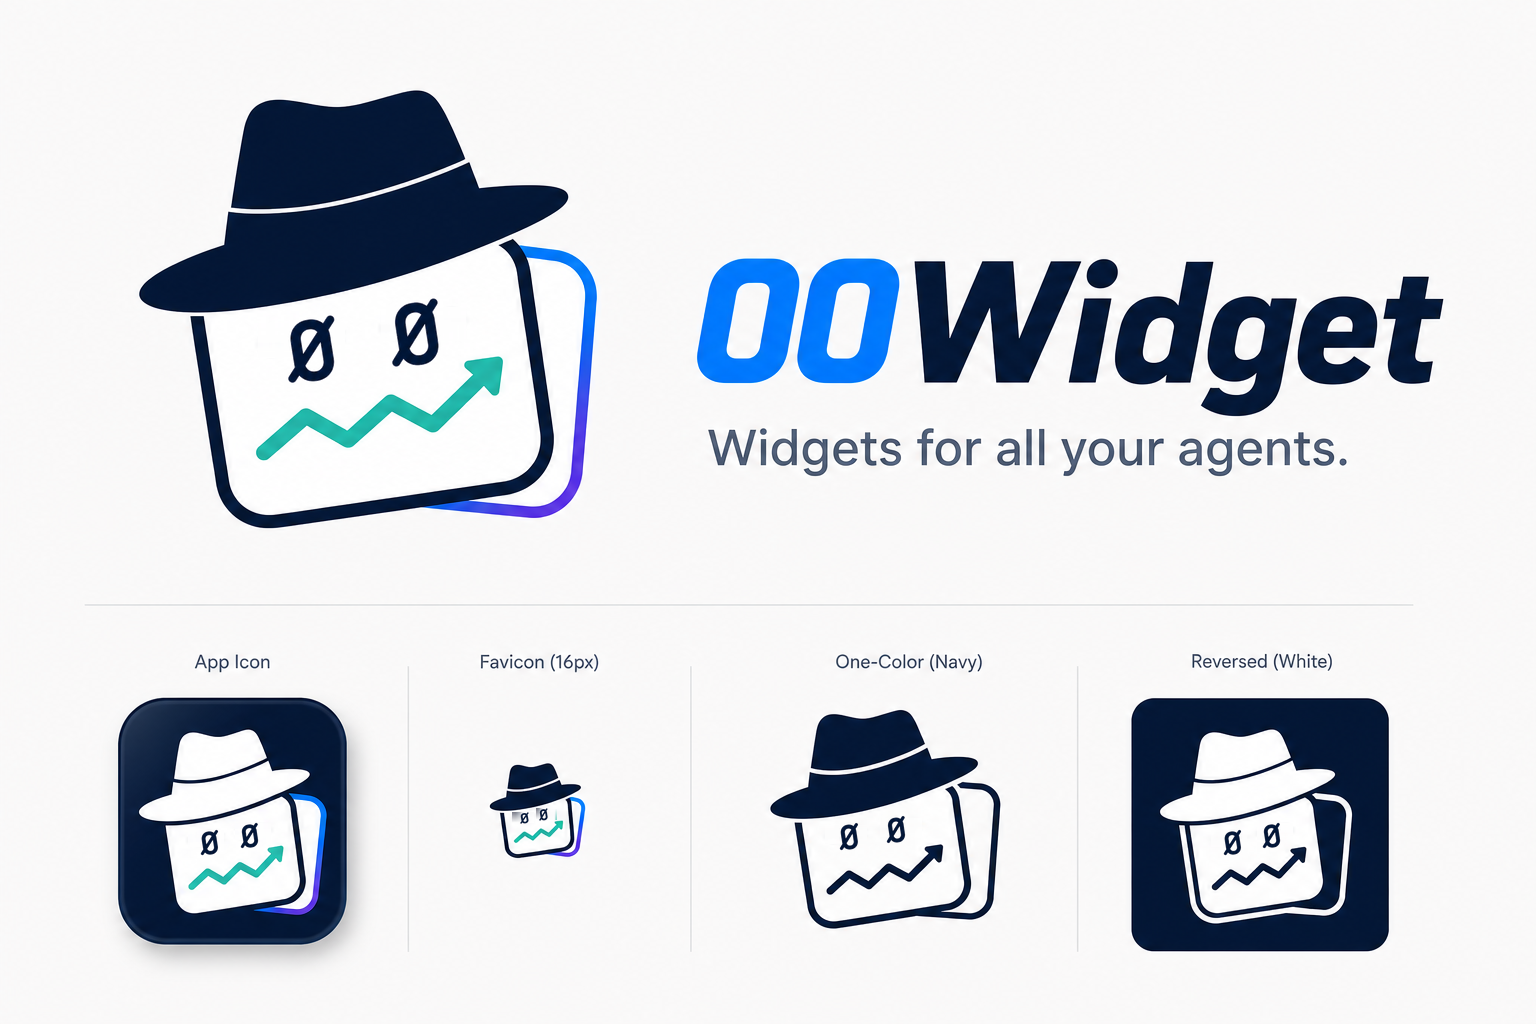
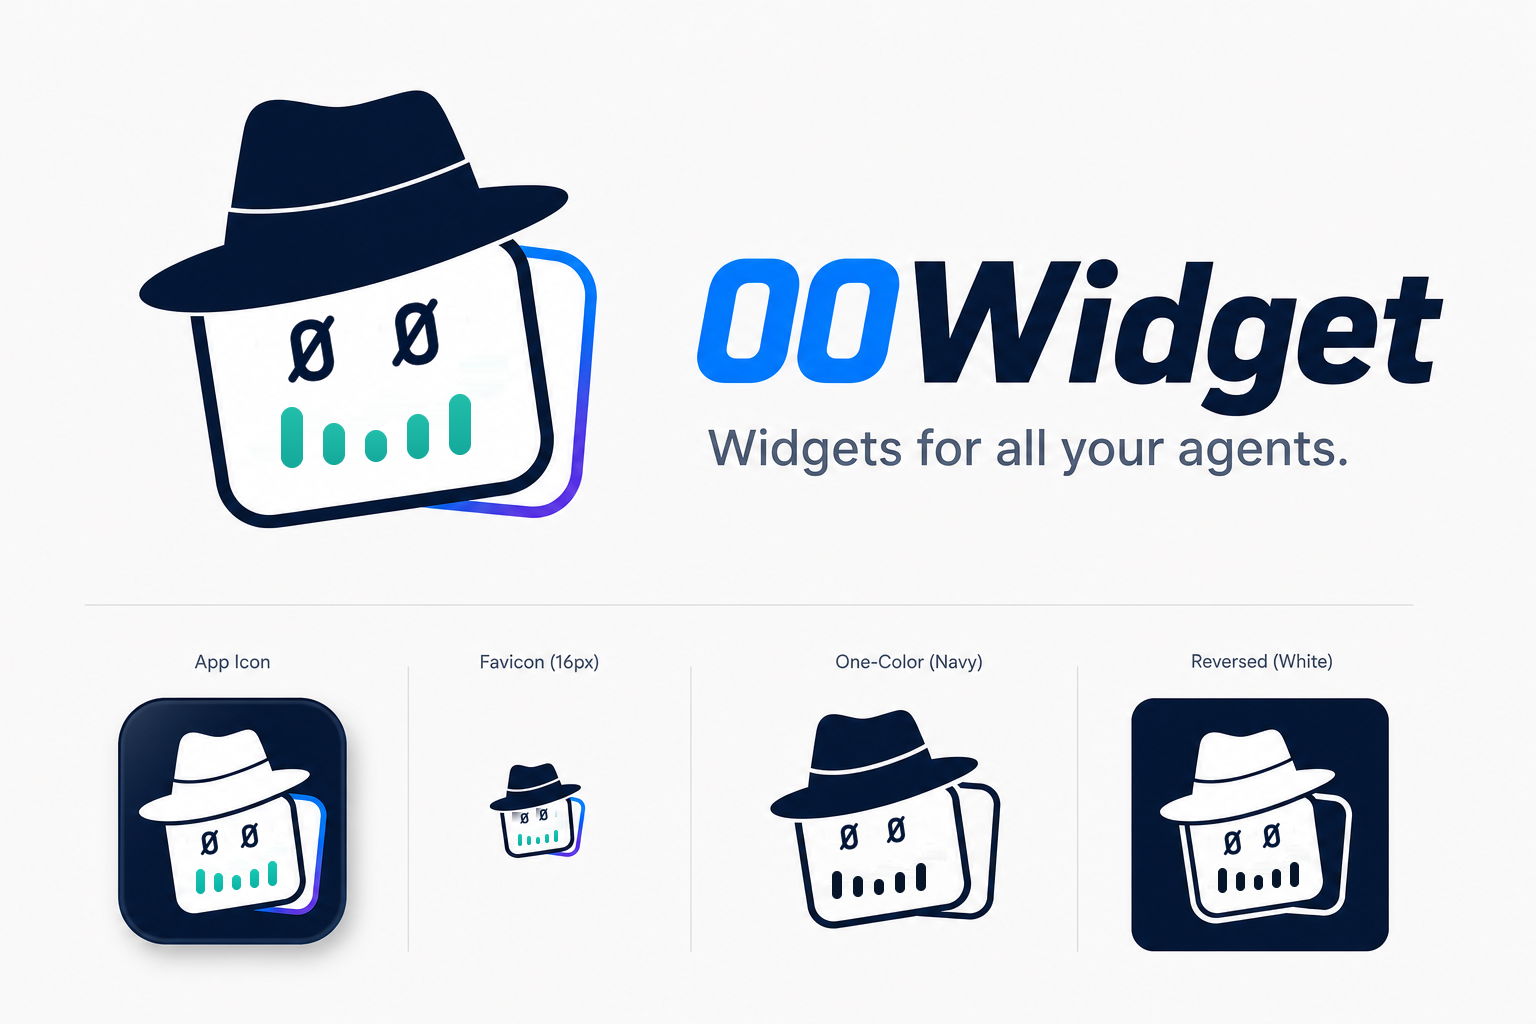
Replace trend line with five-bar smile

diff --git a/docs/brand/README.md b/docs/brand/README.md
@@ -19,7 +19,7 @@ Use this exact wording — no rephrasing. It appears in:
 ## Identity
 
 U2 is the **Two-Card Agent**: two overlapping widget cards, an oversized
-secret-agent fedora, two slashed-zero eyes, and a teal rising trend line. The
+secret-agent fedora, two slashed-zero eyes, and a teal five-bar smile chart. The
 approved artwork is intentionally friendly and slightly organic. Do not redraw
 it as hard geometric primitives or alter its proportions.
 
@@ -66,7 +66,7 @@ approved U2 artwork. Do not substitute an approximate vector redraw.
 | Role             | Hex                   | Usage                                       |
 | ---------------- | --------------------- | ------------------------------------------- |
 | Brand blue       | `#1F8BFF` / `#0968E8` | "00" wordmark, primary accent               |
-| Trend teal       | `#1FB89A`             | Trend-line accent inside the mark           |
+| Trend teal       | `#1FB89A`             | Smile-chart accent inside the mark          |
 | Accent purple    | `#5B35DB`             | Card row accent inside the mark             |
 | Deep navy        | `#06152A`             | Panel + card stroke + "Widget" text         |
 | Mid navy         | `#4C607D`             | Tagline                                     |
@@ -80,7 +80,7 @@ logos are trademarks of Pedro Morais; no trademark rights are granted by the
 software license.
 
 - **Do not** rephrase the tagline.
-- **Do not** change the agent's hat, card overlap, eye placement, trend line,
+- **Do not** change the agent's hat, card overlap, eye placement, smile chart,
   tilt, or rounded proportions.
 - **Do not** recolor the mark. Use the supplied variants as-is.
 - **Do** keep clearspace around the mark equal to half the height of the "0" in `00Widget`.
